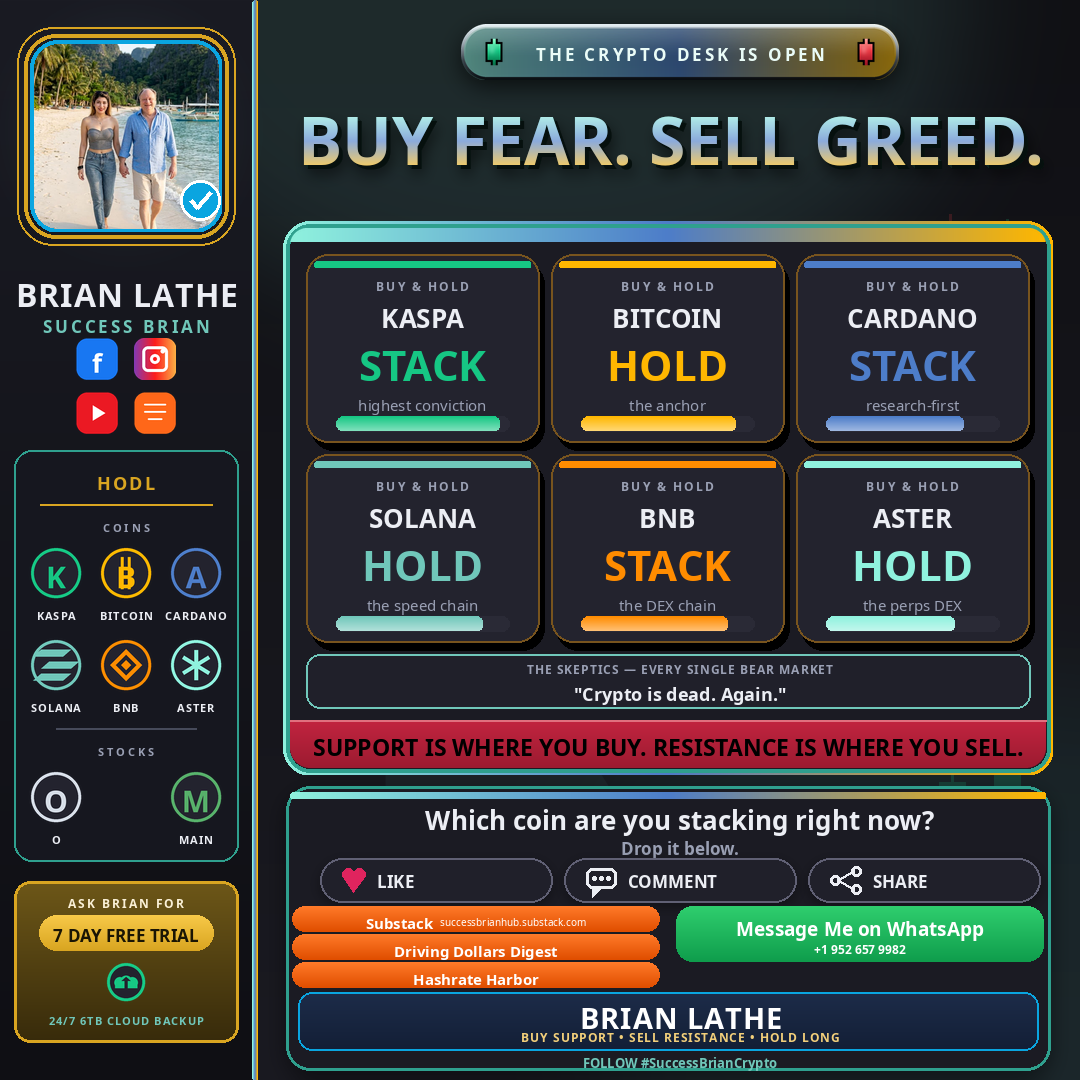
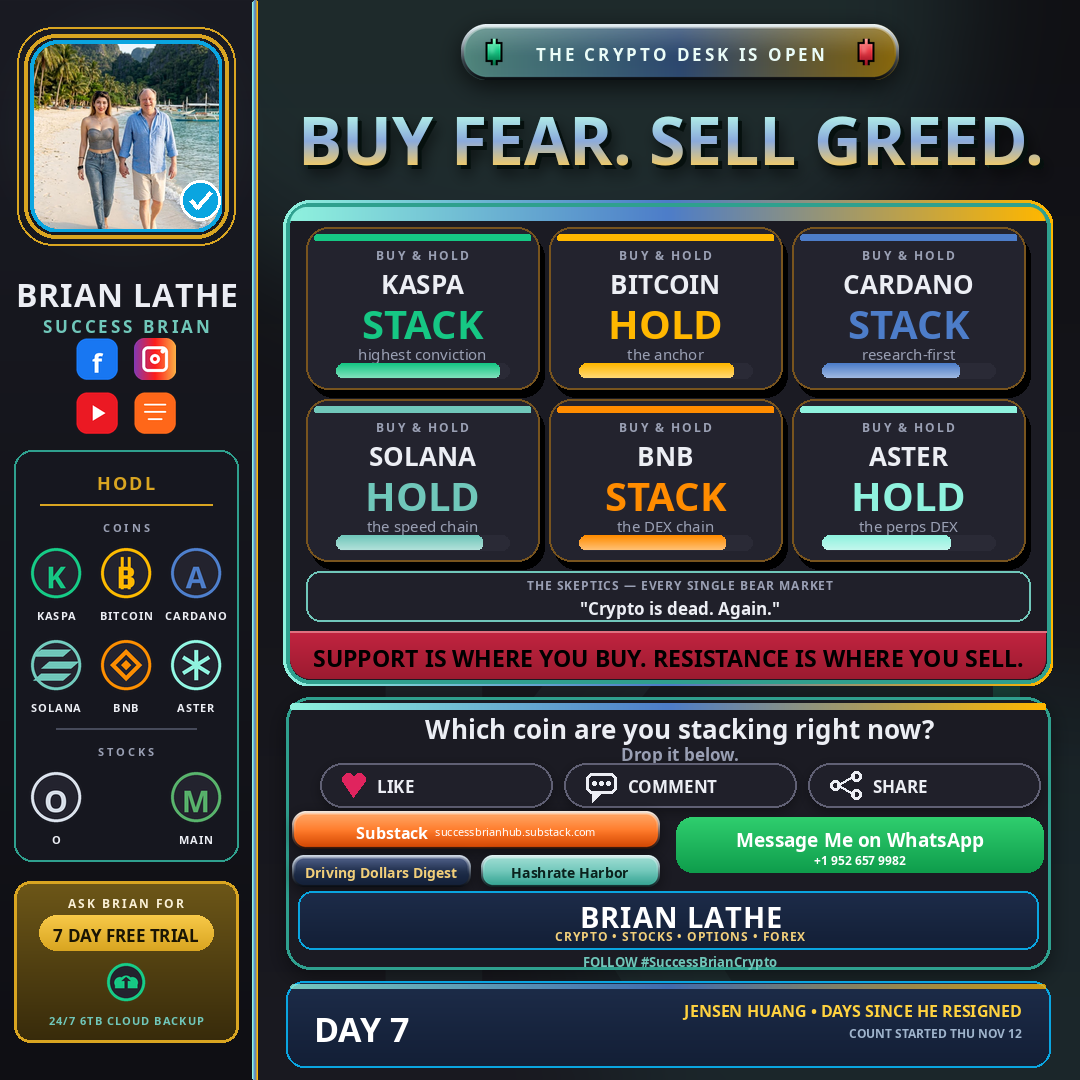
crypto crossover: signature plaque branding = Brians markets (Brian 2026-11-18 22:57 CST: "branding (on right side): Brian Lathe -- Crypto, Stocks, Options, Forex") — plaque second line BUY SUPPORT / SELL RESISTANCE / HOLD LONG -> CRYPTO - STOCKS - OPTIONS - FOREX in the plaques gold small-caps gram

diff --git a/tools/audience/render_crypto_crossover.py b/tools/audience/render_crypto_crossover.py
@@ -75,6 +75,18 @@ connect card KEEPS its "BUY SUPPORT • SELL RESISTANCE • HOLD
 LONG" line exactly as it was — Brian scoped the removal to the
 rail only. crypto_template.py's own tagline usage is untouched.
 
+Branding ruling (Brian, 2026-11-18 22:57 CST): "branding (on
+right side): Brian Lathe -- Crypto, Stocks, Options, Forex".
+The signature plaque's line is now Brian's markets — CRYPTO,
+STOCKS, OPTIONS, FOREX, bullet-separated in the plaque's gold
+small-caps grammar — under the unchanged BRIAN LATHE name.
+This ruling speaks directly to the plaque's content, so it
+SUPERSEDES the tagline's survival there under the 22:12 CST
+"just from the rail" scope: the plaque no longer carries "BUY
+SUPPORT • SELL RESISTANCE • HOLD LONG". The rail removal stands
+as ruled; the FOLLOW #SuccessBrianCrypto line and everything
+else in the piece are untouched.
+
 CTA ruling (Brian, 2026-11-18 22:12 CST): "crunch everything up
 to leave room for a call to action like spencer is on the other."
 The rail's content is compressed upward (icons tightened, the
@@ -275,12 +287,10 @@ Open items flagged for Brian (not decided here):
   Brian removed it (22:11/22:12 CST rulings above); the slot is
   closed and the rail carries no brand line. D1 remains open for
   the Format Library.
-- The signature plaque's second line: the AI version reads "AI
-  INSIGHTS THAT SAVE YOU REAL MONEY". The crypto theme's materials
-  supply no insights-parallel line, so the plaque carries the desk's
-  own line in full — "BUY SUPPORT • SELL RESISTANCE • HOLD LONG" —
-  agent-placed, awaiting Brian's ruling on the wording. Brian's
-  22:12 CST scope correction left the plaque line untouched.
+- The signature plaque's second line is RULED (Brian, 2026-11-18
+  22:57 CST, branding ruling above): Brian's markets — CRYPTO,
+  STOCKS, OPTIONS, FOREX — under his name. The agent-placed
+  tagline that stood there awaiting a ruling is superseded.
 - The rail CTA foot block's wording is Brian's own (22:16 CST
   ruling above) — the earlier agent-drafted placeholder was
   superseded before approval and no longer appears.
@@ -1183,15 +1193,15 @@ def main():
 
     # THE SIGNATURE — the crossover's navy plaque (slimmed vs the
     # AI card so the blogs line and the desk's hashtag line also
-    # fit inside this card). Second line: the crypto desk's own
-    # line (see the module docstring — flagged for Brian's ruling).
+    # fit inside this card). Second line: Brian's markets, per
+    # his branding ruling (2026-11-18 22:57 CST; see docstring).
     _pq = _vgrad(W - 30 - (RAIL_W + 34) - 24, 58, "#1d2c49", "#131f36", 14)
     img.paste(_pq, (RAIL_W + 46, T + 194), _pq)
     d = ImageDraw.Draw(img)
     d.rounded_rectangle([RAIL_W + 46, T + 194, W - 42, T + 252], 14,
                         outline="#0aa5e0", width=2)
     cx_text(d, CX, T + 200, "BRIAN LATHE", font(FB, 29), "white", tracking=1)
-    cx_text(d, CX, T + 231, "BUY SUPPORT \u2022 SELL RESISTANCE \u2022 HOLD LONG",
+    cx_text(d, CX, T + 231, "CRYPTO \u2022 STOCKS \u2022 OPTIONS \u2022 FOREX",
             font(FB, 12), "#f2cf7a", tracking=1)
     # the desk's hashtag line, closing the card
     cx_text(d, CX, T + 256, ct.CRYPTO_BRAND["hashtag"],
